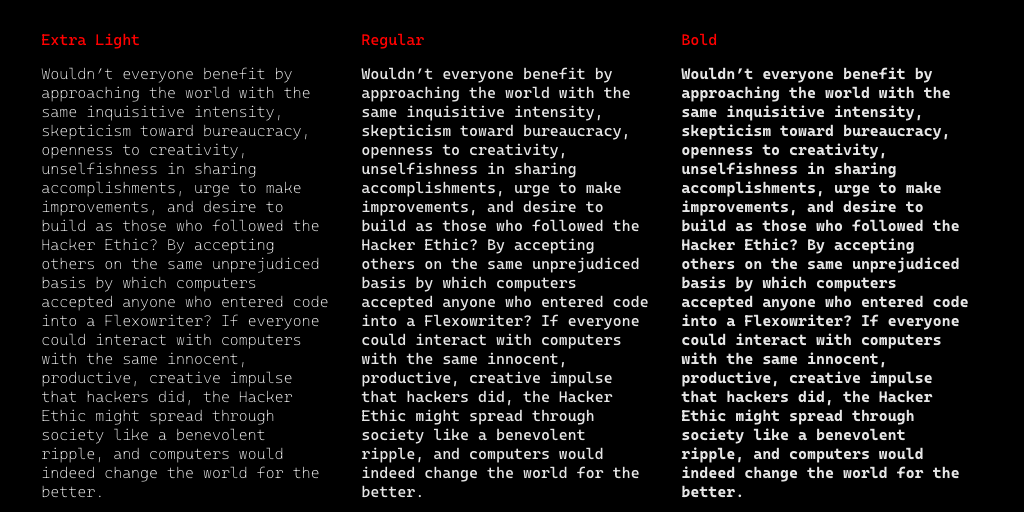
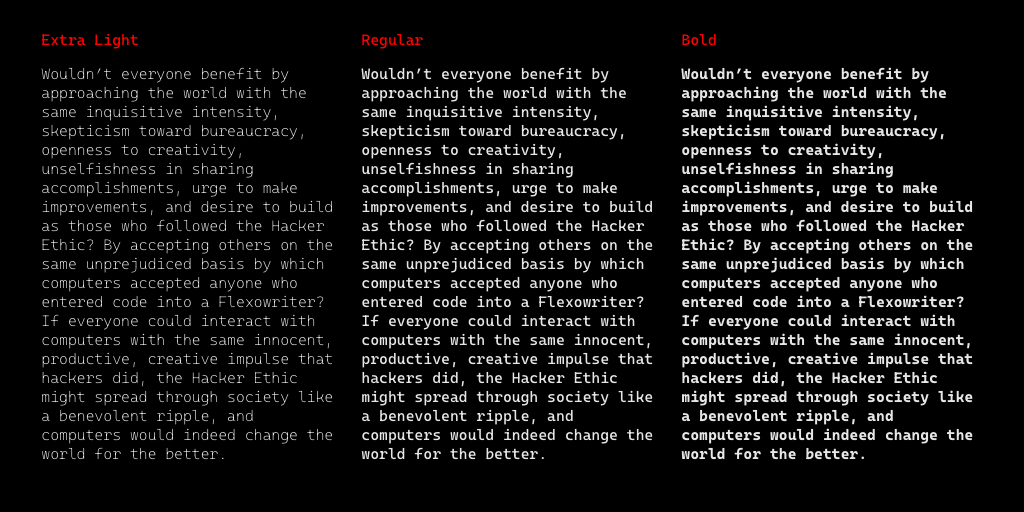
Fix a small layout issue in the text specimen image

diff --git a/documentation/images/text-specimen.py b/documentation/images/text-specimen.py
@@ -53,15 +53,15 @@ TEXT = '''Wouldn’t everyone benefit by approaching the world with the same inq
 new_page()
 font("../../fonts/variable/CaskaydiaCove[wght].ttf")
 #grid() # Toggle for grid view
-fontSize(M/2.09)
+fontSize(M/2.12)
 fill(0.9)
 
 fontVariations(wght=200)
-textBox(TEXT, (M*1.3, M*0, M*9, M*14))
+textBox(TEXT, (M*1.3, M*0, M*9.2, M*14))
 fontVariations(wght=400)
-textBox(TEXT, (M*11.3, M*0, M*9, M*14))
+textBox(TEXT, (M*11.3, M*0, M*9.2, M*14))
 fontVariations(wght=700)
-textBox(TEXT, (M*21.3, M*0, M*9, M*14))
+textBox(TEXT, (M*21.3, M*0, M*9.2, M*14))
 
 fill(1,0,0)
 fontVariations(wght=400)
